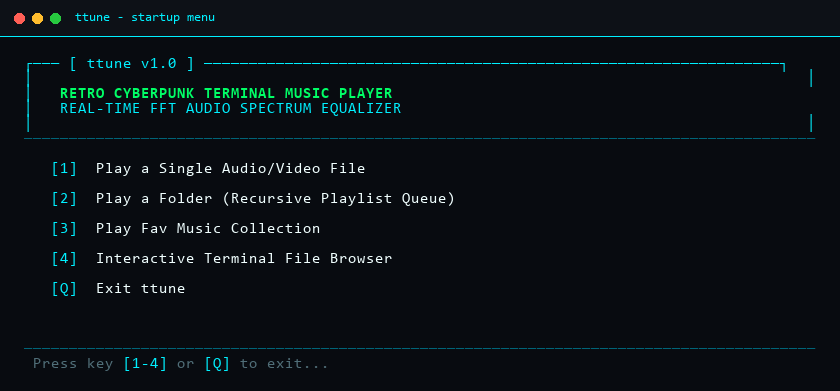
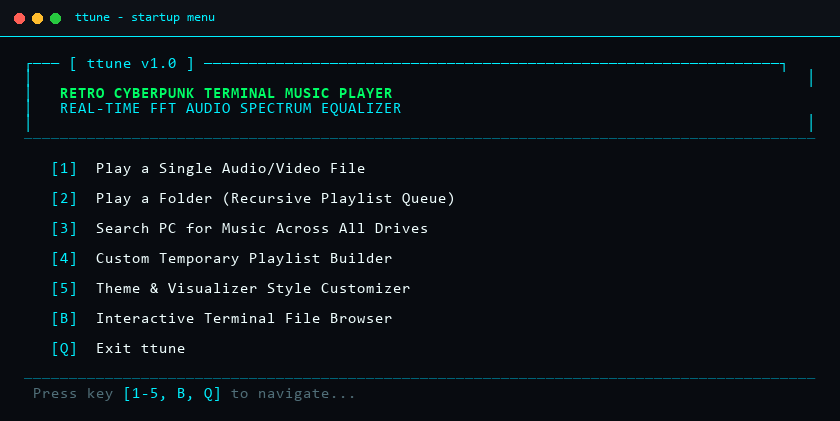
docs: add theme customizer screenshots and update README

diff --git a/scripts/capture_screenshots.py b/scripts/capture_screenshots.py
@@ -155,7 +155,7 @@ def render_terminal_to_image(
 def generate_menu_screenshot():
     """Capture the startup menu frame."""
     cols = 88
-    lines = 22
+    lines = 24
     c_border = color_fg(COLOR_BORDER)
     c_border_dim = color_fg(COLOR_BORDER_DIM)
     c_green = color_fg(COLOR_TAG_GREEN)
@@ -166,8 +166,10 @@ def generate_menu_screenshot():
     menu_options = [
         ("1", "Play a Single Audio/Video File"),
         ("2", "Play a Folder (Recursive Playlist Queue)"),
-        ("3", "Play Fav Music Collection"),
-        ("4", "Interactive Terminal File Browser"),
+        ("3", "Search PC for Music Across All Drives"),
+        ("4", "Custom Temporary Playlist Builder"),
+        ("5", "Theme & Visualizer Style Customizer"),
+        ("B", "Interactive Terminal File Browser"),
         ("Q", "Exit ttune"),
     ]
 
@@ -188,9 +190,73 @@ def generate_menu_screenshot():
     while len(out) < lines - 3:
         out.append("")
     out.append(f"{c_border_dim}{BOX_HORIZ * cols}{STYLE_RESET}")
-    out.append(f" {c_dim}Press key {c_badge}[1-4]{c_dim} or {c_badge}[Q]{c_dim} to exit...{STYLE_RESET}")
+    out.append(f" {c_dim}Press key {c_badge}[1-5, B, Q]{c_dim} to navigate...{STYLE_RESET}")
 
     render_terminal_to_image(out[:lines], "docs/screenshot-menu.png", title="ttune - startup menu", cols=cols)
+
+
+def generate_theme_screenshot():
+    """Capture the theme & visualizer customizer screen."""
+    from ttune.config import THEME_PALETTES, VISUALIZER_SHAPES, ThemeConfig
+    from ttune.ui.theme_picker import render_palette_swatch
+    from ttune.ui.theme import get_gradient_color
+
+    cols = 88
+    lines = 22
+    c_border = color_fg(COLOR_BORDER)
+    c_border_dim = color_fg(COLOR_BORDER_DIM)
+    c_green = color_fg(COLOR_TAG_GREEN)
+    c_title = color_fg(COLOR_TITLE)
+    c_badge = color_fg(COLOR_KEY_BADGE)
+    c_dim = color_fg(COLOR_TEXT_DIM)
+    c_key_txt = color_fg(COLOR_KEY_TEXT)
+
+    tc = ThemeConfig(palette_name="synthwave", shape_name="brick", show_peaks=True)
+    out = []
+    top_dash = cols - 32
+    out.append(f"{c_border}{BOX_TOP_LEFT}{BOX_HORIZ * 3} [ THEME & VISUALIZER STYLES ] {BOX_HORIZ * top_dash}{BOX_TOP_RIGHT}{STYLE_RESET}")
+    out.append(f"{c_border}{BOX_VERT}{STYLE_RESET}{' ' * (cols - 2)}{c_border}{BOX_VERT}{STYLE_RESET}")
+    out.append(f"{c_border}{BOX_VERT}{STYLE_RESET}   {c_green}{STYLE_BOLD}CUSTOMIZE AUDIO SPECTRUM VISUALS & RGB PALETTES{STYLE_RESET}")
+    out.append(f"{c_border_dim}{BOX_HORIZ * cols}{STYLE_RESET}")
+    out.append("")
+
+    swatch = render_palette_swatch("synthwave", length=20)
+    out.append(f" {c_green}▶{STYLE_RESET} {c_badge}[1] Color Palette:{STYLE_RESET}  {c_title}{STYLE_BOLD}◀ SYNTHWAVE    ▶{STYLE_RESET}   {swatch}")
+    out.append("")
+    out.append(f"   {c_badge}[2] Equalizer Shape:{STYLE_RESET} {c_title}{STYLE_BOLD}◀ Brick / Standard ▶{STYLE_RESET}  {c_dim}(Full LED block bricks){STYLE_RESET}")
+    out.append("")
+    out.append(f"   {c_badge}[3] Peak Decay Caps:{STYLE_RESET} {c_green}[ENABLED]{STYLE_RESET}  {c_dim}(Press [3] or Space to toggle){STYLE_RESET}")
+    out.append("")
+    out.append(f"   {c_dim}─── LIVE SPECTRUM PREVIEW ───{STYLE_RESET}")
+
+    grad = tc.gradient
+    p_bars = [0.25, 0.45, 0.80, 1.0, 0.90, 0.65, 0.85, 0.70, 0.40, 0.20]
+    for r in (4, 3, 2, 1):
+        row_c = []
+        for b in p_bars:
+            frac = r / 4.0
+            prev = (r - 1) / 4.0
+            color_str = color_fg(get_gradient_color(frac, gradient=grad))
+            if b >= frac:
+                row_c.append(f"{color_str}██")
+            elif b > prev:
+                row_c.append(f"{color_str}▄▄")
+            else:
+                row_c.append("  ")
+            row_c.append(" ")
+        out.append(f"   {''.join(row_c)}{STYLE_RESET}")
+
+    while len(out) < lines - 3:
+        out.append("")
+    out.append(f"{c_border_dim}{BOX_HORIZ * cols}{STYLE_RESET}")
+    footer_help = (
+        f" {c_badge}↑/↓{STYLE_RESET} {c_key_txt}SELECT{STYLE_RESET}   "
+        f"{c_badge}←/→{STYLE_RESET} {c_key_txt}CHANGE PALETTE/SHAPE{STYLE_RESET}   "
+        f"{c_badge}ENTER/B/ESC{STYLE_RESET} {c_key_txt}APPLY & RETURN{STYLE_RESET}"
+    )
+    out.append(footer_help)
+
+    render_terminal_to_image(out[:lines], "docs/screenshot-themes.png", title="ttune - theme & visualizer customizer", cols=cols)
 
 
 def generate_all_screenshots():
@@ -282,6 +348,7 @@ def generate_all_screenshots():
 
     player.close()
     generate_menu_screenshot()
+    generate_theme_screenshot()
     print("All real screenshots generated successfully!")
 
 

diff --git a/README.md b/README.md
@@ -34,6 +34,8 @@
 
 ![Playlist & Queue](docs/screenshot-playlist.png)
 
+![Theme & Visualizer Style Customizer](docs/screenshot-themes.png)
+
 ![Interactive Startup Menu](docs/screenshot-menu.png)
 
 ---
